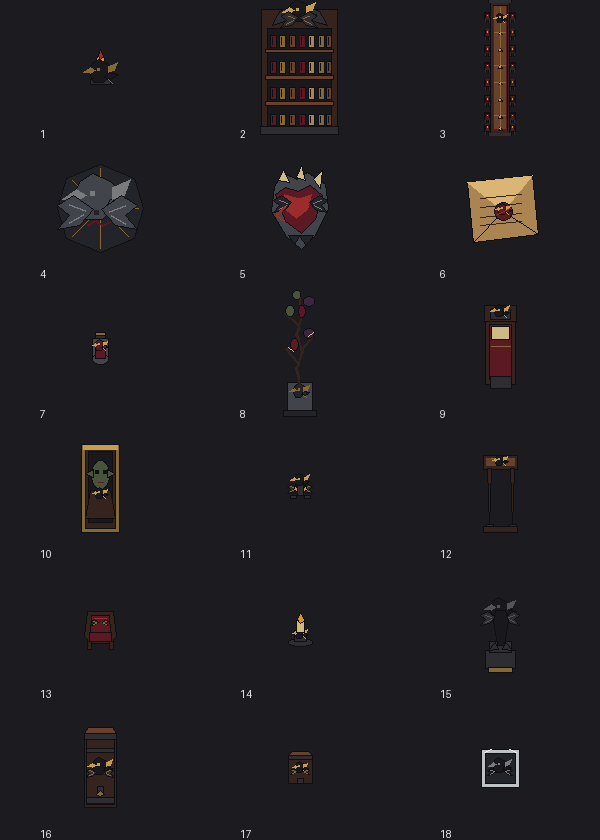
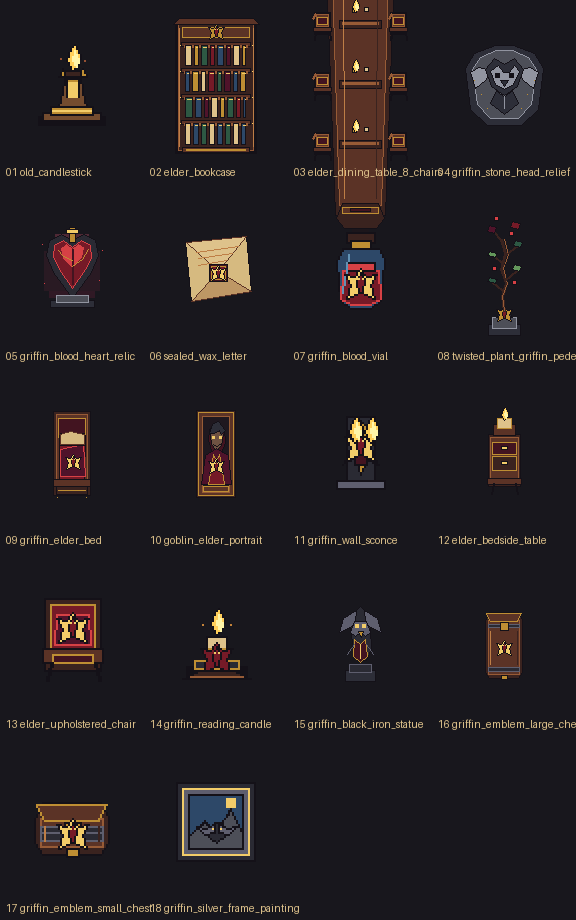
fix: improve elder room pixel asset readability

diff --git a/assets/map/rpg_maker/elder_room/_generate_elder_room.py b/assets/map/rpg_maker/elder_room/_generate_elder_room.py
@@ -1,0 +1,219 @@
+from pathlib import Path
+from PIL import Image, ImageDraw, ImageFont
+
+OUT = Path(__file__).parent
+C = {
+    "ink": (20, 17, 24, 255), "deep": (31, 24, 31, 255), "wood": (91, 51, 38, 255),
+    "wood_dark": (58, 35, 31, 255), "wood_hi": (151, 91, 54, 255), "wood_light": (190, 126, 70, 255),
+    "gold": (190, 142, 51, 255), "gold_hi": (242, 204, 105, 255), "bronze": (116, 76, 47, 255),
+    "iron": (42, 42, 51, 255), "iron_hi": (94, 94, 110, 255), "stone": (77, 79, 88, 255),
+    "stone_hi": (145, 148, 160, 255), "stone_shadow": (45, 46, 56, 255), "red": (117, 26, 39, 255),
+    "red_hi": (214, 65, 69, 255), "red_dark": (66, 20, 32, 255), "wine": (79, 19, 42, 255),
+    "blue": (45, 72, 104, 255), "blue_hi": (97, 146, 181, 255), "cream": (222, 194, 139, 255),
+    "paper": (214, 186, 128, 255), "leaf": (45, 88, 67, 255), "leaf_hi": (99, 151, 91, 255),
+    "flame": (255, 207, 90, 255), "flame_hi": (255, 245, 168, 255),
+}
+
+def canvas(w, h):
+    return Image.new("RGBA", (w, h), (0, 0, 0, 0))
+
+def save(im, name):
+    im.save(OUT / name, "PNG", optimize=True)
+
+def rect(d, box, fill, outline=None, width=1):
+    d.rectangle(box, fill=fill, outline=outline, width=int(max(1, width)))
+
+def line(d, points, fill, width=1):
+    d.line(points, fill=fill, width=int(max(1, width)), joint="curve")
+
+def poly(d, points, fill, outline=None, width=1):
+    d.polygon(points, fill=fill)
+    if outline:
+        line(d, points + [points[0]], outline, width)
+
+def pixel(d, x, y, fill):
+    rect(d, (x, y, x, y), fill)
+
+def flame(d, x, y):
+    poly(d, [(x, y + 8), (x + 2, y + 2), (x + 4, y), (x + 7, y + 5), (x + 6, y + 10), (x + 3, y + 13)], C["flame"], C["ink"])
+    poly(d, [(x + 3, y + 8), (x + 4, y + 3), (x + 6, y + 8), (x + 5, y + 11)], C["flame_hi"])
+
+def griffin_emblem(d, cx, cy, color=None):
+    color = color or C["gold"]
+    poly(d, [(cx, cy - 8), (cx - 3, cy - 4), (cx - 8, cy - 5), (cx - 5, cy), (cx - 7, cy + 7), (cx, cy + 4), (cx + 7, cy + 7), (cx + 5, cy), (cx + 8, cy - 5), (cx + 3, cy - 4)], color, C["ink"])
+    poly(d, [(cx - 2, cy - 2), (cx, cy - 6), (cx + 2, cy - 2), (cx + 1, cy + 4), (cx - 1, cy + 4)], C["red"], C["ink"])
+    pixel(d, cx - 1, cy - 3, C["gold_hi"]); pixel(d, cx + 1, cy - 3, C["gold_hi"])
+
+def draw_candlestick():
+    im = canvas(48, 48); d = ImageDraw.Draw(im)
+    rect(d, (7, 39, 40, 43), C["ink"]); rect(d, (9, 37, 38, 41), C["bronze"], C["ink"]); rect(d, (13, 34, 34, 38), C["gold"], C["ink"])
+    poly(d, [(17, 34), (19, 27), (20, 19), (28, 19), (29, 27), (31, 34)], C["bronze"], C["ink"])
+    rect(d, (21, 20, 27, 29), C["gold"], C["ink"]); rect(d, (22, 22, 26, 29), C["gold_hi"])
+    poly(d, [(17, 19), (19, 15), (21, 17), (24, 14), (27, 17), (29, 15), (31, 19)], C["gold"], C["ink"])
+    rect(d, (20, 16, 28, 19), C["wood_dark"], C["ink"]); flame(d, 21, 3); pixel(d, 18, 10, (190, 100, 57, 190)); pixel(d, 30, 11, (190, 100, 57, 190))
+    line(d, [(14, 36), (33, 36)], C["gold_hi"])
+    return im
+
+def draw_bookcase():
+    im = canvas(96, 144); d = ImageDraw.Draw(im)
+    rect(d, (7, 7, 88, 139), C["ink"]); rect(d, (10, 10, 85, 136), C["wood_dark"], C["wood_hi"]); poly(d, [(5, 10), (11, 4), (85, 4), (91, 10)], C["wood"], C["ink"])
+    rect(d, (14, 13, 81, 23), C["wood"], C["gold"]); griffin_emblem(d, 48, 18)
+    for y in (28, 54, 80, 106): rect(d, (13, y, 82, y + 4), C["wood"], C["ink"]); rect(d, (16, y + 3, 79, y + 5), C["wood_hi"])
+    colors = [C["red"], C["blue"], C["gold"], C["leaf"], C["wine"], C["cream"]]
+    for row, (y0, y1) in enumerate(((31, 51), (57, 77), (83, 103), (109, 130))):
+        x = 17
+        while x < 77:
+            width = [5, 6, 4, 7][(x + row) % 4]; col = colors[(x + row * 2) % len(colors)]
+            rect(d, (x, y0, min(x + width, 77), y1), col, C["ink"]); line(d, [(x + 2, y0 + 2), (min(x + width - 1, 77), y0 + 2)], C["gold_hi"]); x += width + 3
+    rect(d, (14, 133, 81, 138), C["wood"], C["ink"]); rect(d, (18, 135, 77, 136), C["gold"]); line(d, [(11, 14), (11, 132)], C["wood_light"]); line(d, [(85, 14), (85, 132)], C["wood_light"])
+    for y in (29, 55, 81, 107): pixel(d, 12, y + 2, C["gold_hi"]); pixel(d, 84, y + 2, C["gold_hi"])
+    return im
+
+def chair(d, x, y, color=None):
+    color = color or C["wood"]; rect(d, (x - 8, y, x + 8, y + 22), C["ink"]); rect(d, (x - 6, y + 2, x + 6, y + 14), color, C["wood_hi"])
+    rect(d, (x - 5, y + 5, x + 5, y + 12), C["red_dark"], C["gold"]); rect(d, (x - 9, y + 15, x + 9, y + 19), color, C["ink"])
+    line(d, [(x - 7, y + 19), (x - 8, y + 28)], C["ink"], 2); line(d, [(x + 7, y + 19), (x + 8, y + 28)], C["ink"], 2); line(d, [(x - 7, y + 2), (x - 10, y + 7)], C["wood_hi"], 2)
+
+def draw_dining_table():
+    im = canvas(96, 336); d = ImageDraw.Draw(im); rect(d, (40, 13, 56, 322), (30, 22, 25, 150))
+    poly(d, [(22, 15), (74, 15), (83, 26), (73, 297), (23, 297), (13, 26)], C["wood_dark"], C["ink"]); poly(d, [(25, 18), (71, 18), (77, 29), (69, 287), (27, 287), (19, 29)], C["wood"], C["wood_hi"])
+    for y in (42, 102, 162, 222): rect(d, (27, y, 69, y + 8), C["wood_dark"], C["ink"]); rect(d, (30, y + 2, 66, y + 4), C["wood_hi"])
+    for y in (34, 94, 154, 214): chair(d, 10, y); chair(d, 86, y)
+    poly(d, [(30, 285), (66, 285), (72, 300), (64, 310), (32, 310), (24, 300)], C["wood_dark"], C["ink"]); rect(d, (30, 289, 66, 295), C["wood"], C["gold"]); rect(d, (38, 290, 58, 293), C["red_dark"], C["ink"])
+    for y in (28, 88, 148, 208): rect(d, (40, y, 44, y + 6), C["gold"], C["ink"]); flame(d, 40, y - 7); rect(d, (52, y + 1, 56, y + 5), C["cream"], C["ink"])
+    line(d, [(31, 26), (32, 280)], C["wood_light"]); line(d, [(65, 26), (64, 280)], C["wood_dark"])
+    return im
+
+def draw_stone_relief():
+    im = canvas(96, 96); d = ImageDraw.Draw(im)
+    poly(d, [(9, 30), (18, 15), (39, 7), (57, 7), (78, 15), (87, 30), (82, 71), (65, 87), (31, 87), (14, 71)], C["stone_shadow"], C["ink"])
+    poly(d, [(16, 31), (24, 19), (40, 12), (56, 12), (72, 19), (80, 31), (75, 66), (62, 80), (34, 80), (21, 66)], C["stone"], C["stone_hi"])
+    poly(d, [(22, 29), (14, 34), (19, 50), (29, 42), (35, 32)], C["stone_hi"], C["ink"]); poly(d, [(74, 29), (82, 34), (77, 50), (67, 42), (61, 32)], C["stone_hi"], C["ink"])
+    poly(d, [(29, 31), (38, 20), (48, 26), (58, 20), (67, 31), (61, 48), (48, 57), (35, 48)], C["stone_shadow"], C["ink"])
+    poly(d, [(34, 33), (42, 27), (47, 34), (53, 34), (58, 27), (63, 33), (57, 46), (48, 51), (39, 46)], C["stone_hi"], C["ink"])
+    rect(d, (39, 35, 43, 39), C["ink"]); rect(d, (53, 35, 57, 39), C["ink"]); poly(d, [(44, 42), (52, 42), (48, 48)], C["stone_shadow"], C["ink"])
+    poly(d, [(40, 52), (48, 59), (56, 52), (62, 65), (48, 76), (34, 65)], C["stone_shadow"], C["ink"]); line(d, [(48, 58), (48, 70)], C["stone_hi"])
+    for x, y in ((25, 56), (71, 56), (31, 70), (65, 70), (18, 42), (78, 42)): pixel(d, x, y, C["gold"])
+    return im
+
+def draw_heart_relic():
+    im = canvas(96, 96); d = ImageDraw.Draw(im)
+    for box, fill in [((31, 12, 64, 15), (123, 55, 73, 140)), ((25, 18, 70, 75), (100, 28, 55, 80)), ((20, 29, 75, 68), (120, 38, 63, 45))]: rect(d, box, fill)
+    poly(d, [(48, 18), (37, 12), (25, 18), (22, 33), (29, 50), (48, 76), (67, 50), (74, 33), (71, 18), (59, 12)], C["iron"], C["ink"])
+    poly(d, [(48, 25), (39, 18), (30, 23), (29, 35), (35, 47), (48, 66), (61, 47), (67, 35), (66, 23), (57, 18)], C["red"], C["red_hi"])
+    poly(d, [(48, 27), (42, 22), (37, 26), (39, 36), (48, 45), (57, 35), (59, 25), (54, 22)], C["red_hi"])
+    line(d, [(48, 27), (48, 62)], C["red_dark"], 2); line(d, [(48, 38), (39, 34), (34, 28)], C["gold"]); line(d, [(48, 44), (58, 37), (64, 27)], C["gold"])
+    rect(d, (45, 5, 51, 20), C["gold"], C["ink"]); rect(d, (42, 7, 54, 11), C["gold_hi"], C["ink"])
+    for x, y in ((18, 22), (78, 28), (20, 61), (75, 58), (31, 79), (66, 79)): pixel(d, x, y, C["red_hi"])
+    rect(d, (26, 78, 70, 85), C["stone_shadow"], C["ink"]); rect(d, (32, 73, 64, 80), C["stone"], C["stone_hi"])
+    return im
+
+def draw_letter():
+    im = canvas(96, 96); d = ImageDraw.Draw(im)
+    poly(d, [(17, 20), (78, 14), (83, 69), (23, 79)], C["paper"], C["ink"]); poly(d, [(18, 20), (50, 49), (78, 14)], C["cream"], C["wood"]); poly(d, [(23, 79), (50, 49), (83, 69)], (190, 151, 101, 255), C["wood"])
+    line(d, [(28, 30), (70, 24)], C["wood_light"]); line(d, [(30, 36), (64, 31)], C["wood_light"]); line(d, [(30, 43), (58, 38)], C["wood_light"])
+    rect(d, (41, 42, 59, 59), C["red_dark"], C["ink"]); rect(d, (43, 44, 57, 57), C["red"], C["gold"]); griffin_emblem(d, 50, 51, C["gold_hi"]); pixel(d, 43, 58, C["gold"]); pixel(d, 57, 58, C["gold"])
+    return im
+
+def draw_vial():
+    im = canvas(48, 48); d = ImageDraw.Draw(im)
+    rect(d, (17, 5, 31, 10), C["wood_dark"], C["ink"]); rect(d, (19, 9, 29, 14), C["gold"], C["ink"])
+    poly(d, [(15, 13), (33, 13), (36, 19), (34, 39), (29, 43), (19, 43), (14, 39), (12, 19)], C["blue"], C["ink"])
+    poly(d, [(15, 24), (33, 24), (34, 38), (29, 41), (19, 41), (14, 38)], C["red"], C["red_hi"]); rect(d, (17, 20, 31, 24), C["red_hi"], C["ink"])
+    line(d, [(18, 16), (15, 35)], C["blue_hi"]); griffin_emblem(d, 24, 31, C["gold_hi"])
+    return im
+
+def draw_plant():
+    im = canvas(48, 144); d = ImageDraw.Draw(im)
+    rect(d, (8, 126, 40, 137), C["stone_shadow"], C["ink"]); rect(d, (12, 119, 36, 130), C["stone"], C["stone_hi"]); poly(d, [(16, 119), (20, 112), (28, 112), (32, 119)], C["iron"], C["ink"]); griffin_emblem(d, 24, 116, C["gold"])
+    line(d, [(24, 113), (22, 98), (26, 85), (21, 71), (25, 55), (21, 41)], C["wood_dark"], 3); line(d, [(24, 112), (22, 98), (27, 85), (23, 70), (28, 56), (24, 41)], C["wood_hi"])
+    for a, b in [((23, 93), (12, 84)), ((25, 82), (37, 72)), ((24, 67), (13, 57)), ((26, 56), (38, 47)), ((22, 44), (13, 32))]: line(d, [a, b], C["wood_dark"], 2)
+    leaves = [((9, 79), (17, 85), C["leaf"]), ((34, 66), (41, 73), C["leaf_hi"]), ((9, 53), (17, 59), C["leaf_hi"]), ((35, 42), (42, 49), C["leaf"]), ((9, 27), (16, 35), C["wine"]), ((32, 23), (40, 31), C["red"])]
+    for (x0, y0), (x1, y1), col in leaves: poly(d, [(x0, y0), (x1, y0 + 2), (x1 - 2, y1), (x0 - 2, y1 - 2)], col, C["ink"])
+    for x, y in ((16, 20), (31, 35), (14, 70), (34, 84)): rect(d, (x - 2, y - 2, x + 2, y + 2), C["red_hi"], C["ink"])
+    return im
+
+def draw_bed():
+    im = canvas(48, 96); d = ImageDraw.Draw(im)
+    rect(d, (5, 5, 42, 89), C["wood_dark"], C["ink"]); rect(d, (8, 8, 39, 86), C["wood"], C["wood_hi"]); rect(d, (10, 12, 37, 31), C["red_dark"], C["gold"])
+    poly(d, [(11, 29), (37, 29), (36, 73), (11, 73)], C["red"], C["ink"]); poly(d, [(12, 43), (35, 38), (37, 70), (12, 70)], C["wine"], C["red_hi"])
+    rect(d, (12, 27, 36, 39), C["cream"], C["ink"]); poly(d, [(12, 28), (22, 25), (36, 28), (36, 38), (12, 38)], C["paper"], C["wood"]); griffin_emblem(d, 25, 56, C["gold_hi"])
+    rect(d, (5, 73, 42, 80), C["wood"], C["ink"]); rect(d, (8, 80, 39, 88), C["wood_dark"], C["ink"]); line(d, [(10, 84), (37, 84)], C["gold"]); pixel(d, 9, 91, C["gold"]); pixel(d, 38, 91, C["gold"])
+    return im
+
+def draw_portrait():
+    im = canvas(48, 96); d = ImageDraw.Draw(im)
+    rect(d, (4, 4, 43, 91), C["wood_dark"], C["ink"]); rect(d, (6, 6, 41, 89), C["wood"], C["gold"]); rect(d, (10, 10, 37, 86), C["deep"], C["wood_hi"])
+    poly(d, [(16, 34), (17, 23), (24, 17), (32, 23), (33, 36), (29, 47), (20, 47)], C["red_dark"], C["ink"]); poly(d, [(18, 29), (21, 21), (27, 21), (31, 28), (29, 39), (24, 44), (19, 38)], (110, 82, 66, 255), C["ink"])
+    poly(d, [(17, 27), (20, 18), (26, 15), (33, 24), (29, 28), (27, 24), (21, 27)], C["stone_shadow"], C["ink"]); rect(d, (20, 30, 22, 32), C["gold_hi"]); rect(d, (27, 30, 29, 32), C["gold_hi"]); line(d, [(21, 38), (25, 40), (29, 37)], C["ink"])
+    poly(d, [(13, 49), (24, 42), (36, 49), (39, 78), (9, 78)], C["wine"], C["ink"]); poly(d, [(21, 48), (24, 55), (27, 48), (32, 78), (16, 78)], C["red"], C["gold"]); griffin_emblem(d, 24, 60, C["gold_hi"]); rect(d, (11, 80, 36, 85), C["wood"], C["gold"])
+    return im
+
+def draw_sconce():
+    im = canvas(48, 48); d = ImageDraw.Draw(im)
+    rect(d, (17, 5, 31, 39), C["iron"], C["ink"]); poly(d, [(24, 7), (18, 14), (20, 21), (15, 29), (21, 26), (24, 34), (27, 26), (33, 29), (28, 21), (30, 14)], C["gold"], C["ink"])
+    rect(d, (21, 18, 27, 29), C["red_dark"], C["ink"]); griffin_emblem(d, 24, 20, C["gold_hi"]); flame(d, 18, 5); flame(d, 26, 5); rect(d, (12, 37, 36, 41), C["iron_hi"], C["ink"])
+    return im
+
+def draw_bedside_table():
+    im = canvas(48, 96); d = ImageDraw.Draw(im)
+    rect(d, (8, 28, 40, 80), C["wood_dark"], C["ink"]); rect(d, (10, 31, 38, 76), C["wood"], C["wood_hi"]); rect(d, (12, 36, 36, 48), C["red_dark"], C["gold"]); rect(d, (12, 50, 36, 64), C["wood_dark"], C["gold"])
+    rect(d, (21, 40, 27, 43), C["gold_hi"], C["ink"]); rect(d, (21, 55, 27, 58), C["gold_hi"], C["ink"]); rect(d, (7, 72, 41, 78), C["wood"], C["ink"]); line(d, [(13, 77), (11, 88)], C["ink"], 2); line(d, [(35, 77), (37, 88)], C["ink"], 2)
+    rect(d, (13, 18, 35, 29), C["wood"], C["ink"]); rect(d, (17, 12, 31, 22), C["cream"], C["gold"]); flame(d, 21, 1)
+    return im
+
+def draw_chair():
+    im = canvas(48, 48); d = ImageDraw.Draw(im)
+    rect(d, (10, 4, 38, 40), C["wood_dark"], C["ink"]); rect(d, (13, 7, 35, 30), C["red"], C["gold"]); poly(d, [(16, 12), (32, 12), (33, 27), (15, 27)], C["wine"], C["red_hi"]); griffin_emblem(d, 24, 19, C["gold_hi"])
+    rect(d, (9, 29, 39, 36), C["wood"], C["ink"]); rect(d, (14, 32, 34, 36), C["red_dark"], C["gold"]); line(d, [(13, 36), (11, 45)], C["ink"], 2); line(d, [(35, 36), (37, 45)], C["ink"], 2)
+    return im
+
+def draw_reading_candle():
+    im = canvas(48, 48); d = ImageDraw.Draw(im)
+    rect(d, (9, 38, 39, 42), C["ink"]); rect(d, (13, 35, 35, 39), C["iron"], C["gold"]); rect(d, (19, 23, 29, 36), C["cream"], C["ink"]); rect(d, (20, 29, 28, 36), C["paper"], C["gold"]); griffin_emblem(d, 24, 34, C["red"]); flame(d, 21, 9); pixel(d, 17, 17, (242, 160, 65, 200)); pixel(d, 31, 17, (242, 160, 65, 200)); poly(d, [(7, 44), (16, 40), (33, 40), (41, 44)], C["wood_dark"], C["ink"]); line(d, [(11, 43), (37, 43)], C["wood_hi"])
+    return im
+
+def draw_statue():
+    im = canvas(48, 96); d = ImageDraw.Draw(im)
+    rect(d, (9, 80, 39, 91), C["stone_shadow"], C["ink"]); rect(d, (13, 74, 35, 82), C["iron"], C["iron_hi"])
+    poly(d, [(24, 16), (17, 23), (14, 39), (17, 58), (22, 70), (30, 70), (35, 58), (34, 39), (31, 23)], C["iron"], C["ink"]); poly(d, [(20, 20), (7, 28), (3, 42), (14, 37), (19, 31)], C["iron_hi"], C["ink"]); poly(d, [(28, 20), (41, 28), (45, 42), (34, 37), (29, 31)], C["iron_hi"], C["ink"])
+    poly(d, [(18, 31), (14, 42), (19, 46), (24, 42), (29, 46), (34, 42), (30, 31)], C["iron_hi"], C["ink"]); rect(d, (19, 34, 22, 37), C["gold_hi"]); rect(d, (26, 34, 29, 37), C["gold_hi"]); poly(d, [(22, 41), (27, 41), (25, 47)], C["gold"], C["ink"])
+    poly(d, [(18, 49), (24, 54), (29, 49), (31, 66), (24, 72), (17, 66)], C["red_dark"], C["gold"]); line(d, [(24, 54), (24, 68)], C["gold_hi"]); line(d, [(18, 54), (11, 64)], C["iron_hi"]); line(d, [(30, 54), (37, 64)], C["iron_hi"])
+    return im
+
+def draw_chest(w, h, large=True):
+    im = canvas(w, h); d = ImageDraw.Draw(im); x0, x1 = 5, w - 6; y0, y1 = (22 if large else 14), h - 8
+    poly(d, [(x0 + 4, y0), (x1 - 4, y0), (x1, y0 + 8), (x1, y1 - 6), (x1 - 4, y1), (x0 + 4, y1), (x0, y1 - 6), (x0, y0 + 8)], C["wood_dark"], C["ink"])
+    rect(d, (x0 + 3, y0 + 8, x1 - 3, y1 - 4), C["wood"], C["wood_hi"]); poly(d, [(x0 + 1, y0 + 1), (x1 - 1, y0 + 1), (x1 - 5, y0 + 9), (x0 + 5, y0 + 9)], C["wood"], C["gold"])
+    rect(d, (x0 + 3, y0 + 12, x1 - 3, y0 + 15), C["iron"], C["iron_hi"]); rect(d, (x0 + 3, y1 - 11, x1 - 3, y1 - 7), C["iron"], C["iron_hi"]); rect(d, (w // 2 - 4, y0 + 10, w // 2 + 4, y0 + 18), C["gold"], C["ink"]); griffin_emblem(d, w // 2, (y0 + y1) // 2 + 3, C["gold_hi"]); rect(d, (w // 2 - 3, y1 - 3, w // 2 + 3, y1 + 1), C["gold"], C["ink"])
+    line(d, [(x0 + 5, y0 + 19), (x0 + 5, y1 - 14)], C["wood_light"]); line(d, [(x1 - 5, y0 + 19), (x1 - 5, y1 - 14)], C["wood_dark"])
+    return im
+
+def draw_painting():
+    im = canvas(48, 48); d = ImageDraw.Draw(im)
+    rect(d, (4, 4, 43, 43), C["iron"], C["ink"]); rect(d, (7, 7, 40, 40), C["iron_hi"], C["gold_hi"]); rect(d, (10, 10, 37, 37), C["blue"], C["ink"])
+    poly(d, [(10, 33), (18, 23), (24, 29), (31, 17), (37, 33)], C["stone_shadow"], C["ink"]); poly(d, [(10, 37), (10, 31), (18, 24), (23, 29), (31, 18), (37, 29), (37, 37)], C["stone"], C["ink"]); rect(d, (29, 12, 33, 16), C["gold_hi"])
+    poly(d, [(23, 24), (19, 27), (20, 31), (24, 34), (28, 31), (29, 27), (26, 24)], C["iron"], C["ink"]); poly(d, [(23, 25), (18, 27), (14, 26), (18, 30), (23, 29)], C["iron_hi"], C["ink"]); poly(d, [(25, 25), (30, 27), (34, 26), (30, 30), (25, 29)], C["iron_hi"], C["ink"]); pixel(d, 22, 27, C["gold_hi"]); pixel(d, 26, 27, C["gold_hi"])
+    return im
+
+ASSETS = [
+    ("01_old_candlestick.png", draw_candlestick), ("02_elder_bookcase.png", draw_bookcase), ("03_elder_dining_table_8_chairs.png", draw_dining_table),
+    ("04_griffin_stone_head_relief.png", draw_stone_relief), ("05_griffin_blood_heart_relic.png", draw_heart_relic), ("06_sealed_wax_letter.png", draw_letter),
+    ("07_griffin_blood_vial.png", draw_vial), ("08_twisted_plant_griffin_pedestal.png", draw_plant), ("09_griffin_elder_bed.png", draw_bed),
+    ("10_goblin_elder_portrait.png", draw_portrait), ("11_griffin_wall_sconce.png", draw_sconce), ("12_elder_bedside_table.png", draw_bedside_table),
+    ("13_elder_upholstered_chair.png", draw_chair), ("14_griffin_reading_candle.png", draw_reading_candle), ("15_griffin_black_iron_statue.png", draw_statue),
+    ("16_griffin_emblem_large_chest.png", lambda: draw_chest(48, 96, True)), ("17_griffin_emblem_small_chest.png", lambda: draw_chest(48, 48, False)),
+    ("18_griffin_silver_frame_painting.png", draw_painting),
+]
+
+def contact_sheet():
+    thumb_w, thumb_h = 144, 184; sheet = Image.new("RGBA", (thumb_w * 4, thumb_h * 5), (24, 23, 29, 255)); font = ImageFont.load_default()
+    for idx, (name, fn) in enumerate(ASSETS):
+        im = fn(); scale = max(1, min((thumb_w - 20) // im.width, (thumb_h - 28) // im.height)); preview = im.resize((im.width * scale, im.height * scale), Image.Resampling.NEAREST)
+        x = (idx % 4) * thumb_w + (thumb_w - preview.width) // 2; y = (idx // 4) * thumb_h + 8 + (thumb_h - 28 - preview.height) // 2; sheet.alpha_composite(preview, (x, y)); d = ImageDraw.Draw(sheet)
+        d.text(((idx % 4) * thumb_w + 6, (idx // 4) * thumb_h + thumb_h - 18), f"{idx + 1:02d} {name[3:-4]}", fill=C["cream"], font=font)
+    sheet.save(OUT / "elder_room_contact_sheet.png", "PNG", optimize=True)
+
+if __name__ == "__main__":
+    for name, fn in ASSETS: save(fn(), name)
+    contact_sheet()

diff --git a/assets/map/rpg_maker/elder_room/README.md b/assets/map/rpg_maker/elder_room/README.md
@@ -7,3 +7,5 @@ These transparent PNG map props were generated from the 18 Chinese prompts in th
 The files use exact RPG Maker tile footprints from the prompts. They are rendered as crisp, nearest-neighbor pixel art with no antialiasing and are intended for map placement, not as full-scene backgrounds.
 
 The generated images are derived assets. The source PDF remains outside the repository and is not copied into the project.
+
+The pixel drawings can be regenerated with `python _generate_elder_room.py` from this directory. The generator keeps the requested RPG Maker footprints, RGBA transparency, nearest-neighbor edges, and the shared elder-room palette.
